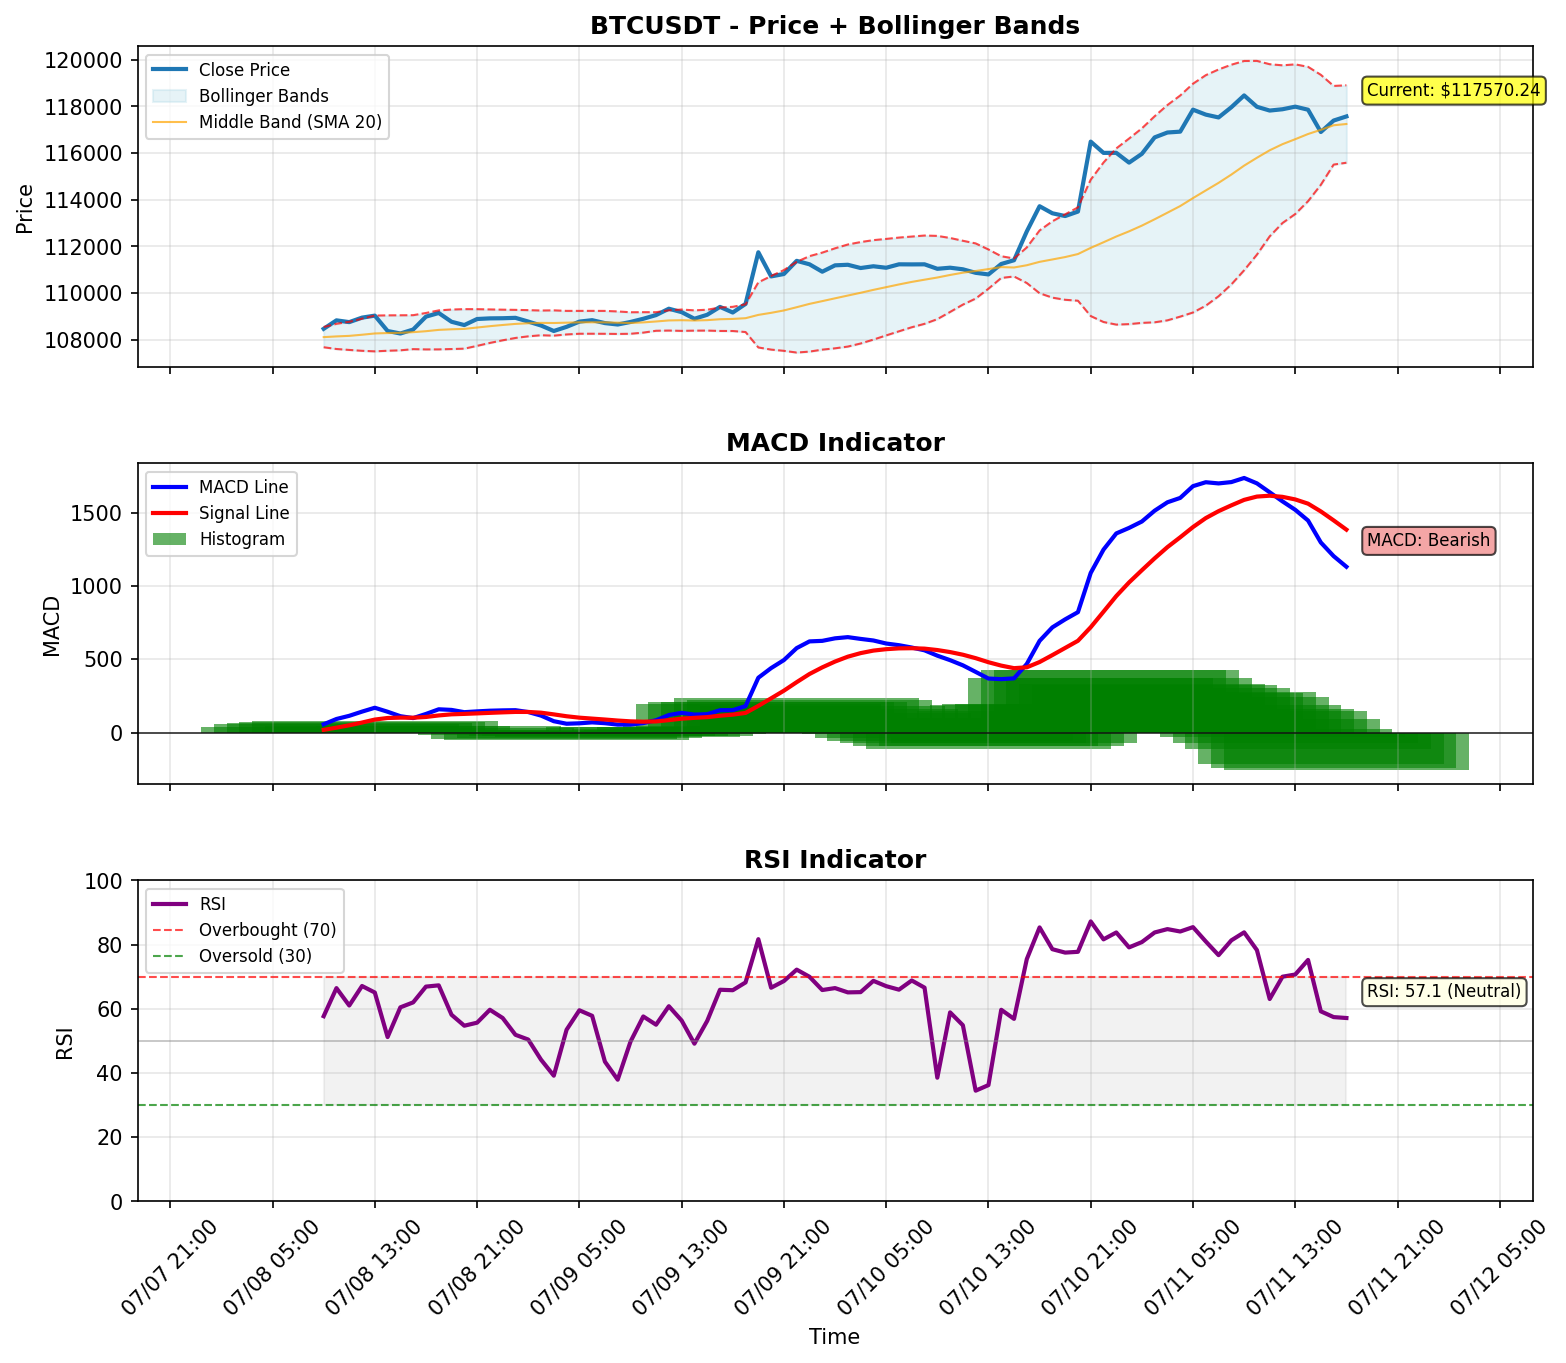
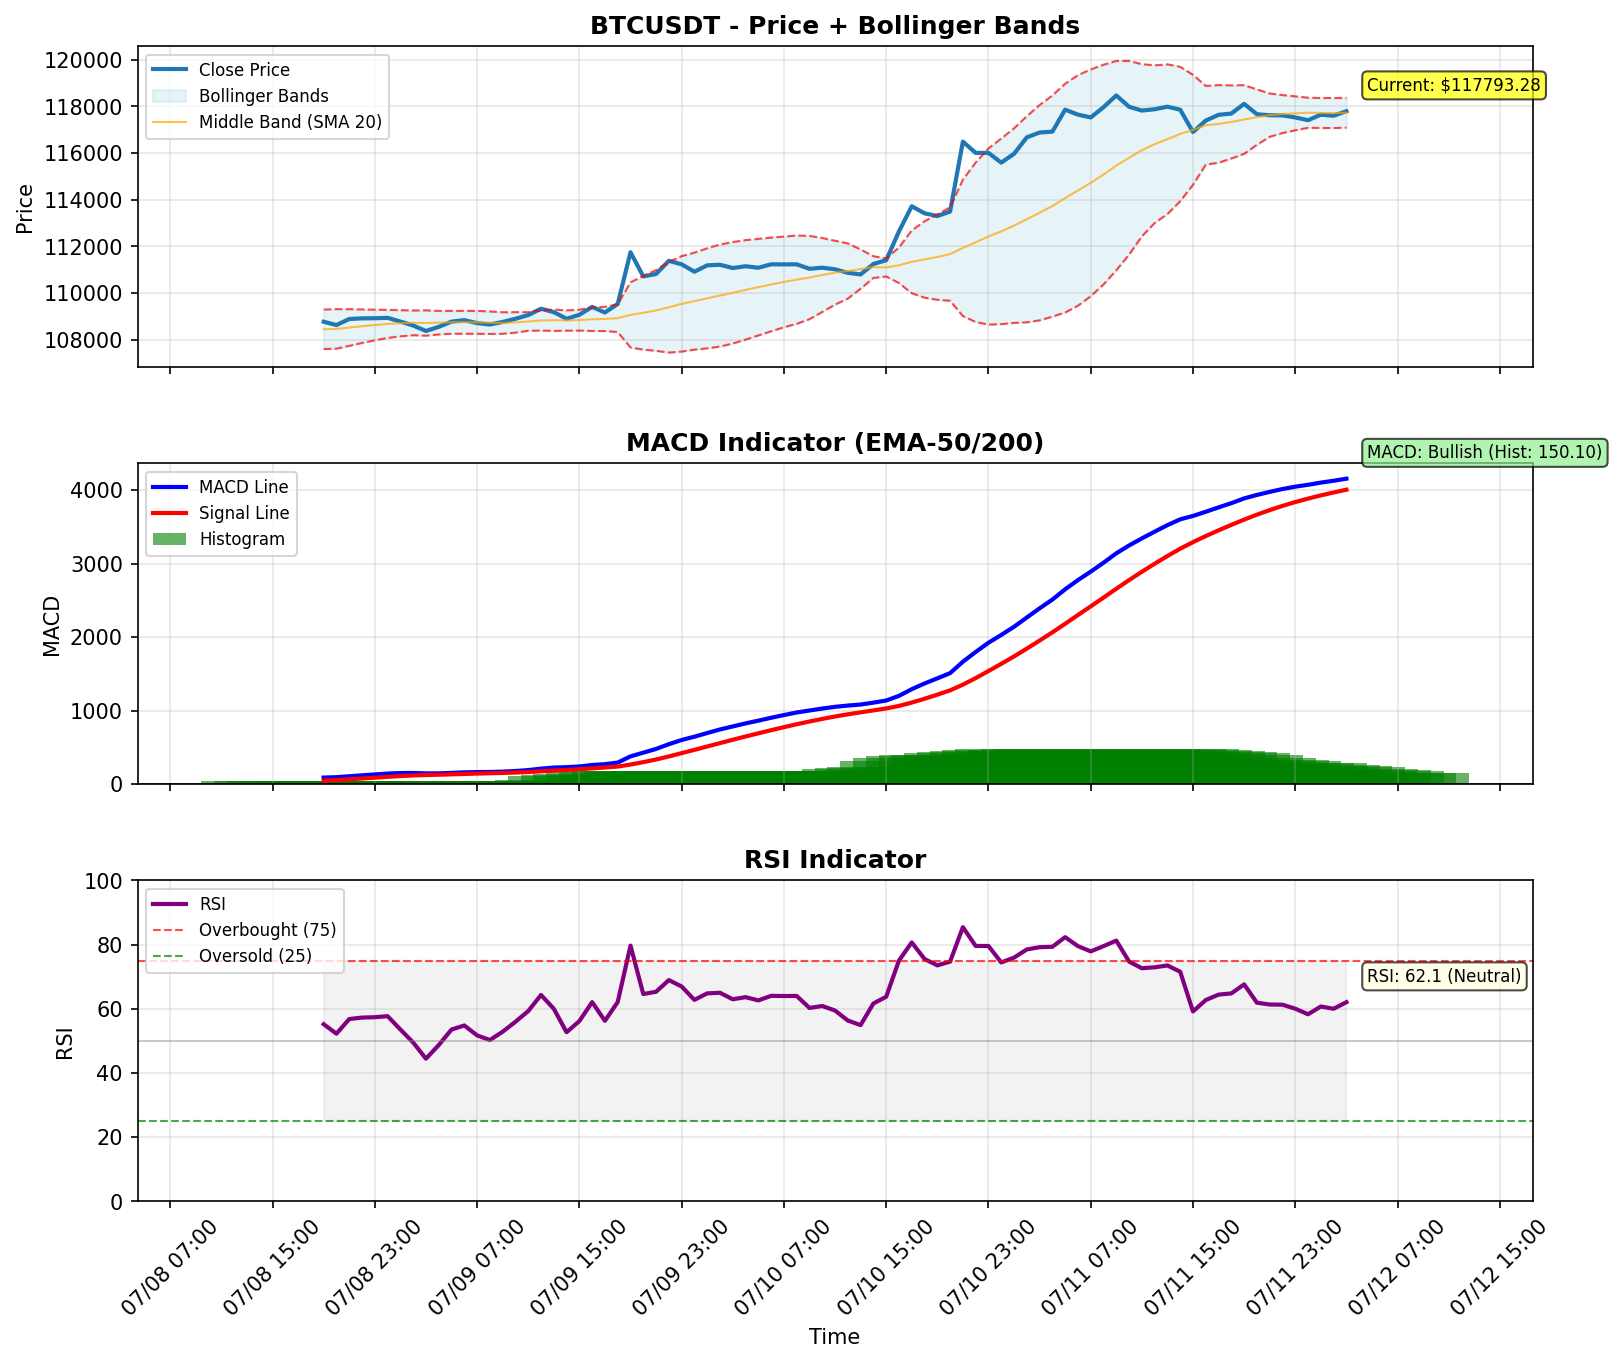
Updated files.

diff --git a/reports/generate_pdf.py b/reports/generate_pdf.py
@@ -1072,7 +1072,7 @@ def create_pdf_report(symbol, interval, signal_info, risk_info, timing_info, sum
         macd_color = pdf.get_signal_color(macd_value)
         pdf.set_font("Arial", "B", 10)
         pdf.set_text_color(*macd_color)
-        pdf.multi_cell(0, 6, f"MACD Signal: {macd_value} (Timeframe: {timeframe_str}, Fast EMA: 12, Slow EMA: 26, Signal: 9)")
+        pdf.multi_cell(0, 6, f"MACD Signal: {macd_value} (Timeframe: {timeframe_str}, Fast EMA: 50, Slow EMA: 200, Signal: 9)")
         
         pdf.set_font("Arial", "", 8)
         pdf.set_text_color(50, 50, 50)
@@ -1089,7 +1089,7 @@ def create_pdf_report(symbol, interval, signal_info, risk_info, timing_info, sum
 
         pdf.set_font("Arial", "", 8)
         pdf.set_text_color(50, 50, 50)
-        pdf.multi_cell(0, 5, "RSI (Relative Strength Index) measures momentum. Values above 70 may indicate overbought (SELL zone), while values below 30 may indicate oversold (BUY zone).")
+        pdf.multi_cell(0, 5, "RSI (Relative Strength Index) measures momentum. Values above 75 may indicate overbought (SELL zone), while values below 25 may indicate oversold (BUY zone).")
 
         # === Bollinger Bands ===
         bb_signal = ind.get('bb', 'N/A')
@@ -1131,19 +1131,26 @@ def create_pdf_report(symbol, interval, signal_info, risk_info, timing_info, sum
             
             # Calculate technical indicators if they don't exist
             if 'macd_line' not in df.columns or 'macd_signal' not in df.columns:
-                # Simple MACD calculation
-                exp1 = df['close'].ewm(span=12).mean()
-                exp2 = df['close'].ewm(span=26).mean()
+                # *** IMPORTANT: Use same MACD calculation as your indicator logic ***
+                # Using EMA-50 and EMA-200 to match your indicators/macd.py
+                exp1 = df['close'].ewm(span=50, adjust=False).mean()  # EMA-50
+                exp2 = df['close'].ewm(span=200, adjust=False).mean()  # EMA-200
                 df['macd_line'] = exp1 - exp2
-                df['macd_signal'] = df['macd_line'].ewm(span=9).mean()
+                df['macd_signal'] = df['macd_line'].ewm(span=9, adjust=False).mean()
                 df['macd_histogram'] = df['macd_line'] - df['macd_signal']
             
             if 'rsi' not in df.columns:
-                # Simple RSI calculation
+                # RSI calculation matching your indicators/rsi.py
                 delta = df['close'].diff()
-                gain = (delta.where(delta > 0, 0)).rolling(window=14).mean()
-                loss = (-delta.where(delta < 0, 0)).rolling(window=14).mean()
-                rs = gain / loss
+                gain = delta.where(delta > 0, 0.0)
+                loss = -delta.where(delta < 0, 0.0)
+                
+                # Use exponential moving average for more responsive RSI (same as your indicator)
+                alpha = 1.0 / 14
+                avg_gain = gain.ewm(alpha=alpha, adjust=False).mean()
+                avg_loss = loss.ewm(alpha=alpha, adjust=False).mean()
+                
+                rs = avg_gain / avg_loss
                 df['rsi'] = 100 - (100 / (1 + rs))
             
             if 'upper_band' not in df.columns or 'lower_band' not in df.columns:
@@ -1169,7 +1176,7 @@ def create_pdf_report(symbol, interval, signal_info, risk_info, timing_info, sum
             # --- Price + Bollinger Bands ---
             axes[0].plot(df.index, df['close'], color='#1f77b4', linewidth=2, label='Close Price')
             axes[0].fill_between(df.index, df['lower_band'], df['upper_band'], 
-                               color='lightblue', alpha=0.3, label='Bollinger Bands')
+                            color='lightblue', alpha=0.3, label='Bollinger Bands')
             axes[0].plot(df.index, df['upper_band'], color='red', linestyle='--', alpha=0.7, linewidth=1)
             axes[0].plot(df.index, df['lower_band'], color='red', linestyle='--', alpha=0.7, linewidth=1)
             axes[0].plot(df.index, df['middle_band'], color='orange', linestyle='-', alpha=0.7, linewidth=1, label='Middle Band (SMA 20)')
@@ -1182,54 +1189,88 @@ def create_pdf_report(symbol, interval, signal_info, risk_info, timing_info, sum
             # Add current price annotation
             current_price = df['close'].iloc[-1]
             axes[0].annotate(f'Current: ${current_price:.2f}', 
-                           xy=(df.index[-1], current_price), 
-                           xytext=(10, 10), textcoords='offset points',
-                           bbox=dict(boxstyle='round,pad=0.3', facecolor='yellow', alpha=0.7),
-                           fontsize=8)
+                        xy=(df.index[-1], current_price), 
+                        xytext=(10, 10), textcoords='offset points',
+                        bbox=dict(boxstyle='round,pad=0.3', facecolor='yellow', alpha=0.7),
+                        fontsize=8)
 
             # --- MACD ---
             axes[1].plot(df.index, df['macd_line'], label='MACD Line', color='blue', linewidth=2)
             axes[1].plot(df.index, df['macd_signal'], label='Signal Line', color='red', linewidth=2)
             axes[1].bar(df.index, df['macd_histogram'], label='Histogram', color='green', alpha=0.6, width=0.8)
             axes[1].axhline(0, color='black', linestyle='-', linewidth=0.8, alpha=0.8)
-            axes[1].set_title("MACD Indicator", fontsize=12, fontweight='bold')
+            axes[1].set_title("MACD Indicator (EMA-50/200)", fontsize=12, fontweight='bold')
             axes[1].legend(loc='upper left', fontsize=8)
             axes[1].grid(True, alpha=0.3)
             axes[1].set_ylabel('MACD', fontsize=10)
             
-            # Add MACD signal annotation
-            current_macd = df['macd_line'].iloc[-1]
-            current_signal = df['macd_signal'].iloc[-1]
-            macd_position = "Bullish" if current_macd > current_signal else "Bearish"
-            axes[1].annotate(f'MACD: {macd_position}', 
-                           xy=(df.index[-1], current_macd), 
-                           xytext=(10, 10), textcoords='offset points',
-                           bbox=dict(boxstyle='round,pad=0.3', 
-                                   facecolor='lightgreen' if macd_position == "Bullish" else 'lightcoral', 
-                                   alpha=0.7),
-                           fontsize=8)
+            # *** MACD SIGNAL DETECTION MATCHING YOUR INDICATOR LOGIC ***
+            # Use the same logic as your indicators/macd.py
+            current_hist = df['macd_histogram'].iloc[-1]
+            prev_hist = df['macd_histogram'].iloc[-2] if len(df) >= 2 else current_hist
+            
+            # Noise filter: Ignore tiny fluctuations (same as your indicator)
+            threshold = 0.3
+
+            if current_hist > threshold and prev_hist <= threshold:
+                macd_position = "Bullish"
+            elif current_hist < -threshold and prev_hist >= -threshold:
+                macd_position = "Bearish"
+            elif current_hist > prev_hist and current_hist > threshold:
+                macd_position = "Bullish"
+            elif current_hist < prev_hist and current_hist < -threshold:
+                macd_position = "Bearish"
+            elif abs(current_hist) < threshold:
+                macd_position = "Neutral"
+            else:
+                macd_position = "Bullish" if current_hist > 0 else "Bearish"
+            
+            # Determine color based on signal
+            if "Bullish" in macd_position:
+                macd_annotation_color = 'lightgreen'
+            elif "Bearish" in macd_position:
+                macd_annotation_color = 'lightcoral'
+            else:
+                macd_annotation_color = 'lightyellow'
+            
+            axes[1].annotate(f'MACD: {macd_position} (Hist: {current_hist:.2f})', 
+                        xy=(df.index[-1], df['macd_line'].iloc[-1]), 
+                        xytext=(10, 10), textcoords='offset points',
+                        bbox=dict(boxstyle='round,pad=0.3', 
+                                facecolor=macd_annotation_color, 
+                                alpha=0.7),
+                        fontsize=8)
 
             # --- RSI ---
             axes[2].plot(df.index, df['rsi'], label='RSI', color='purple', linewidth=2)
-            axes[2].axhline(70, linestyle='--', color='red', linewidth=1, alpha=0.7, label='Overbought (70)')
-            axes[2].axhline(30, linestyle='--', color='green', linewidth=1, alpha=0.7, label='Oversold (30)')
+            # Updated to match your indicator thresholds (75/25 instead of 70/30)
+            axes[2].axhline(75, linestyle='--', color='red', linewidth=1, alpha=0.7, label='Overbought (75)')
+            axes[2].axhline(25, linestyle='--', color='green', linewidth=1, alpha=0.7, label='Oversold (25)')
             axes[2].axhline(50, linestyle='-', color='gray', linewidth=0.8, alpha=0.5)
-            axes[2].fill_between(df.index, 30, 70, alpha=0.1, color='gray')
+            axes[2].fill_between(df.index, 25, 75, alpha=0.1, color='gray')
             axes[2].set_title("RSI Indicator", fontsize=12, fontweight='bold')
             axes[2].legend(loc='upper left', fontsize=8)
             axes[2].grid(True, alpha=0.3)
             axes[2].set_ylabel('RSI', fontsize=10)
             axes[2].set_ylim(0, 100)
             
-            # Add RSI level annotation
+            # RSI level annotation matching your indicator logic (75/25 thresholds)
             current_rsi = df['rsi'].iloc[-1]
-            rsi_level = "Overbought" if current_rsi > 75 else "Oversold" if current_rsi < 25 else "Neutral"
-            rsi_color = 'lightcoral' if current_rsi > 75 else 'lightgreen' if current_rsi < 25 else 'lightyellow'
+            if current_rsi > 75:
+                rsi_level = "Overbought"
+                rsi_color = 'lightcoral'
+            elif current_rsi < 25:
+                rsi_level = "Oversold"
+                rsi_color = 'lightgreen'
+            else:
+                rsi_level = "Neutral"
+                rsi_color = 'lightyellow'
+                
             axes[2].annotate(f'RSI: {current_rsi:.1f} ({rsi_level})', 
-                           xy=(df.index[-1], current_rsi), 
-                           xytext=(10, 10), textcoords='offset points',
-                           bbox=dict(boxstyle='round,pad=0.3', facecolor=rsi_color, alpha=0.7),
-                           fontsize=8)
+                        xy=(df.index[-1], current_rsi), 
+                        xytext=(10, 10), textcoords='offset points',
+                        bbox=dict(boxstyle='round,pad=0.3', facecolor=rsi_color, alpha=0.7),
+                        fontsize=8)
 
             # Format x-axis
             axes[2].xaxis.set_major_formatter(mdates.DateFormatter('%m/%d %H:%M'))

diff --git a/strategies/bollinger_squeezer_strategy.py b/strategies/bollinger_squeezer_strategy.py
@@ -1,3 +1,5 @@
+#strategies\bollinger_squeezer_strategy.py
+
 from indicators.bollinger import calculate_bollinger_bands
 
 def bollinger_squeeze_signal(df):

diff --git a/strategies/rsi_volatility_strategy.py b/strategies/rsi_volatility_strategy.py
@@ -1,3 +1,5 @@
+#strategies\rsi_volatility_strategy.py
+
 from indicators.rsi import calculate_rsi
 from indicators.volatility import calculate_volatility
 

diff --git a/strategies/trend_sentiment_strategy.py b/strategies/trend_sentiment_strategy.py
@@ -1,3 +1,5 @@
+#strategies\trend_sentiment_strategy.py
+
 from indicators.trend import identify_trend
 
 def trend_sentiment_signal(df, sentiment):

diff --git a/strategies/macd_ema_strategy.py b/strategies/macd_ema_strategy.py
@@ -1,3 +1,4 @@
+#strategies\macd_ema_strategy.py
 from indicators.macd import calculate_macd
 from indicators.trend import calculate_ema
 
